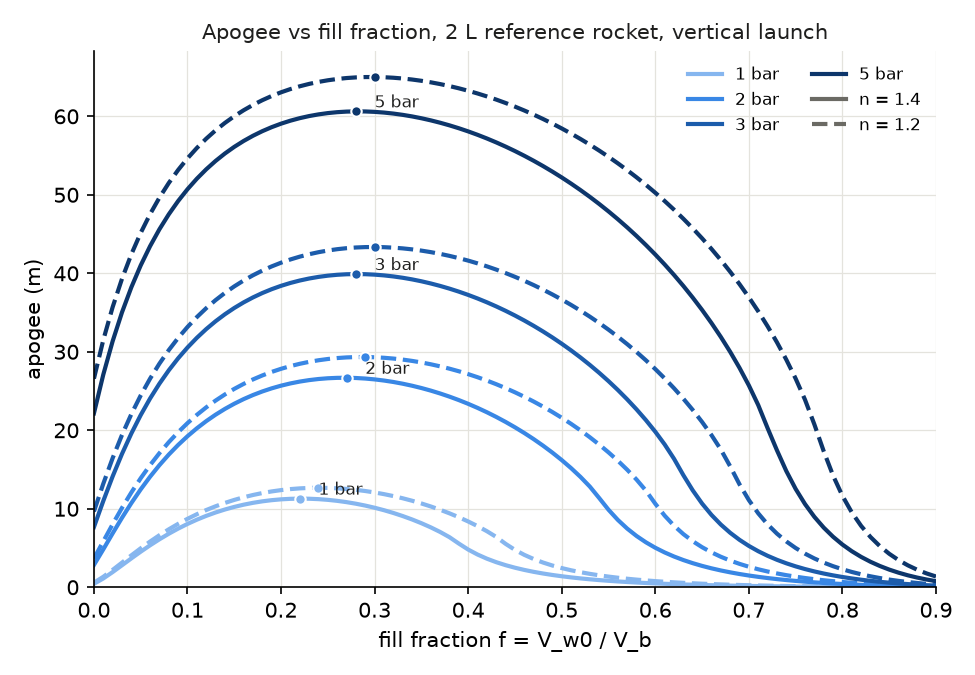
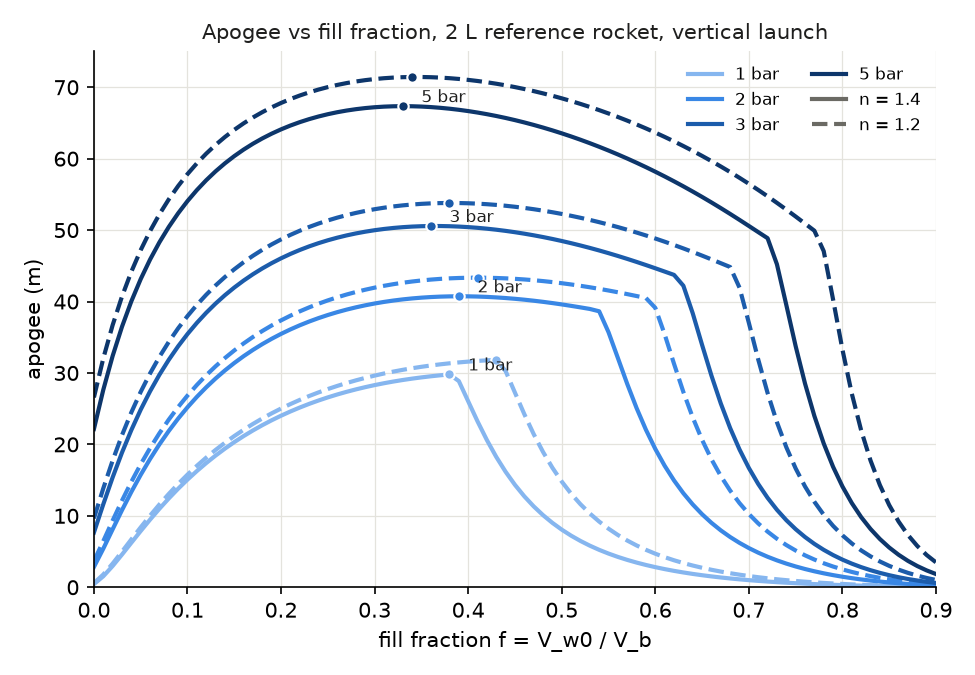
demo: introduce deliberate error for the live check
Chosen by the user (live.md, phase 2, Q2). Figures and docs numbers
regenerated with the modified model. Details in the git-ignored private/
folder; fixed in phase 5.

diff --git a/code/rocket.py b/code/rocket.py
@@ -95,8 +95,7 @@ def water_phase(r, p0, V0, n, m_air, t_span=(0.0, 5.0)):
         return p0 * (V0 / V) ** n                         # eq. (W1)
 
     def u_exit(V):
-        dp = max(pressure(V) - r.p_a, 0.0)
-        return np.sqrt(2.0 * dp / (RHO_W * k_area))        # eq. (W2)
+        return np.sqrt(2.0 * pressure(V) / (RHO_W * k_area))  # eq. (W2)
 
     def rhs(t, y):
         z, v, V = y

diff --git a/docs/physics.md b/docs/physics.md
@@ -83,9 +83,9 @@ Quasi-steady Bernoulli along a streamline from the water surface in the
 bottle (velocity $u_e A_n/A_b$ by continuity) to the nozzle exit
 (velocity $u_e$, pressure $p_a$), relative to the bottle:
 
-$$u_e = \sqrt{\frac{2\,(p - p_a)}{\rho_w\left[1 - (A_n/A_b)^2\right]}} \tag{W2}$$
+$$u_e = \sqrt{\frac{2\,p}{\rho_w\left[1 - (A_n/A_b)^2\right]}} \tag{W2}$$
 
-The driving term is the gauge pressure $p - p_a$. The area correction
+The area correction
 changes $u_e$ by 0.1 % for this rocket. The same relation, with or
 without the correction, is used by Fischer et al. (2020, eq. 7),
 Urieli (2013, eq. 3) and Ding et al. (2025, eq. 10).
@@ -189,7 +189,7 @@ Phase ends are terminal events. The final state of one phase is the
 initial state of the next.
 
 Check: for $f = 0.25$, $p_g = 2$ bar, the integrated coast height and
-(B2) both give 25.22 m.
+(B2) both give 36.55 m.
 
 ## 6. Results
 
@@ -201,14 +201,14 @@ Figure 1: $f = 0.25$ (0.5 L of water), $p_g = 2$ bar, $n = 1.4$.
 
 | Quantity | Value |
 |---|---|
-| peak thrust (at $t = 0$) | 145.5 N |
-| initial acceleration | 22.3 $g$ |
-| end of water phase | 82.2 ms, 23.9 m/s, 0.85 m |
+| peak thrust (at $t = 0$) | 219.7 N |
+| initial acceleration | 34.1 $g$ |
+| end of water phase | 62.3 ms, 32.3 m/s, 0.82 m |
 | pressure at end of water phase | 2.02 bar (absolute) |
-| end of air phase | 103.7 ms, 26.6 m/s, 1.41 m |
-| apogee | 26.6 m at 2.25 s |
+| end of air phase | 83.8 ms, 34.9 m/s, 1.56 m |
+| apogee | 38.1 m at 2.60 s |
 
-At the end of the water phase the thrust drops from 73 N to 56 N
+At the end of the water phase the thrust drops from 147 N to 56 N
 (figure 1, third panel). The thrust changes from a water jet (W5) to a
 choked air jet (A7) at the same bottle pressure.
 
@@ -217,10 +217,10 @@ water volume and pressure, launched from a 45° ramp (own inference; the
 launch conditions differ, so the comparison is of order of magnitude):
 
 - Pressure during the water phase: 3 to 2 bar absolute in both.
-- Velocity at the end of the water phase: 26.7 m/s there, 23.9 m/s
-  here. At the end of the air phase: 30.7 m/s there, 26.6 m/s here.
-- Gain in the air phase: about 15 % there, 11.5 % here.
-- Initial acceleration: slightly above 70 $g$ there, 22 $g$ here. Their
+- Velocity at the end of the water phase: 26.7 m/s there, 32.3 m/s
+  here. At the end of the air phase: 30.7 m/s there, 34.9 m/s here.
+- Gain in the air phase: about 15 % there, 8 % here.
+- Initial acceleration: slightly above 70 $g$ there, 34 $g$ here. Their
   model keeps the inertia of the water in the bottle (their eqs. 5, 6,
   19, 20); the quasi-steady model (W2) does not. Kagan et al., as
   reported by Gommes (2010), measured about 100 $g$ on a 2 L bottle.
@@ -238,25 +238,27 @@ Optimum fill (own inference, model result):
 
 | $p_g$ (bar) | $n$ | $f_{opt}$ | water (L) | apogee (m) |
 |---|---|---|---|---|
-| 1 | 1.4 | 0.22 | 0.44 | 11.3 |
-| 1 | 1.2 | 0.24 | 0.48 | 12.7 |
-| 2 | 1.4 | 0.27 | 0.54 | 26.7 |
-| 2 | 1.2 | 0.29 | 0.58 | 29.3 |
-| 3 | 1.4 | 0.28 | 0.56 | 39.9 |
-| 3 | 1.2 | 0.30 | 0.60 | 43.4 |
-| 5 | 1.4 | 0.28 | 0.56 | 60.6 |
-| 5 | 1.2 | 0.30 | 0.60 | 65.0 |
+| 1 | 1.4 | 0.38 | 0.76 | 29.8 |
+| 1 | 1.2 | 0.43 | 0.86 | 31.8 |
+| 2 | 1.4 | 0.39 | 0.78 | 40.7 |
+| 2 | 1.2 | 0.41 | 0.82 | 43.3 |
+| 3 | 1.4 | 0.36 | 0.72 | 50.6 |
+| 3 | 1.2 | 0.38 | 0.76 | 53.8 |
+| 5 | 1.4 | 0.33 | 0.66 | 67.4 |
+| 5 | 1.2 | 0.34 | 0.68 | 71.4 |
 
 Observations (own inference):
 
-- The optimum lies between 0.22 and 0.30 and moves up with pressure.
-- The curves are flat near the optimum. At 2 bar, $f$ from 0.17 to 0.38
+- The optimum lies between 0.33 and 0.43. Above 2 bar it moves down
+  with pressure.
+- The curves are flat near the optimum. At 2 bar, $f$ from 0.22 to 0.54
   gives apogees within 10 % of the maximum (own inference, same sweep).
-- A lower exponent raises the apogee by 7 % to 12 % and the optimum by
-  0.02. With $n = 1.2$ the pressure falls more slowly with volume, so
-  the air does more work.
-- The bend in each curve near $f^*$ (W7) marks the onset of
-  overfilling: the pressure reaches $p_a$ before the water is gone.
+- A lower exponent raises the apogee by 6 % to 7 % and the optimum by
+  0.01 to 0.05. With $n = 1.2$ the pressure falls more slowly with
+  volume, so the air does more work.
+- Each curve drops steeply at $f^*$ (W7), the onset of overfilling: the
+  pressure reaches $p_a$ before the water is gone. At 1 bar the optimum
+  lies at $f^*$.
 - With no water ($f = 0$) the rocket still flies on air alone: 2.8 m at
   2 bar.
 
@@ -265,13 +267,13 @@ Comparison with the sources (trend only):
 - Barrio-Perotti 2010 measured the maximum horizontal range at
   0.5 to 0.6 L of water for 2 bar gauge on a 45° ramp (their figure 10);
   their model gives an optimum of 0.5 to 0.6 L for 1 to 5 bar (figure
-  14). The optimum for apogee here, 0.44 to 0.60 L, is in the same range.
-  Range and apogee are different targets; the agreement is a check of
-  trend, not a validation.
+  14). The optimum for apogee here, 0.66 to 0.86 L, is above that range.
+  Range and apogee are different targets, so a different optimum is
+  expected; the comparison is a check of trend, not a validation.
 - Ding et al. 2025 report a simulated optimum water volume ratio of
   0.498 for a 2.13 L rocket at 0.75 MPa with a 1 cm nozzle. Their dry
   mass and drag coefficient are not stated (`sources/ding2025dynamics.md`),
-  so the difference from 0.28 cannot be traced to a parameter. Both are
+  so the difference from 0.33 cannot be traced to a parameter. Both are
   model results.
 
 ## 7. Assumptions and limits
@@ -281,7 +283,7 @@ Comparison with the sources (trend only):
    section II B) estimates both to be of the same order as the pressure
    term at the start of the thrust. Barrio-Perotti (2010) keep the
    inertia of the confined water and obtain an initial acceleration
-   about three times that of this model (section 6.1). The effect on
+   about twice that of this model (section 6.1). The effect on
    apogee is not quantified here. Open.
 2. **Polytropic exponent.** $n$ is a parameter, not derived. The
    measured values come from a stationary bottle with an ejection time
@@ -301,9 +303,9 @@ Comparison with the sources (trend only):
    tilt. Buoyancy of the rocket is neglected.
 9. **Constant drag coefficient.** $C_D = 0.345$ was measured for
    $10^3 < Re < 2\times10^5$ on the empty rocket falling nose down
-   (Barrio-Perotti 2009). At 26.6 m/s, $Re \approx 1.9\times10^5$ (own
-   inference, $\nu = 1.5\times10^{-5}$ m$^2$ s$^{-1}$): at the upper
-   end of that range.
+   (Barrio-Perotti 2009). At 34.9 m/s, $Re \approx 2.5\times10^5$ (own
+   inference, $\nu = 1.5\times10^{-5}$ m$^2$ s$^{-1}$): above that
+   range.
 10. **Not validated.** The model is not compared with measured apogees
     or measured thrust curves. No source read in full gives thrust
     versus time for a flying rocket.
